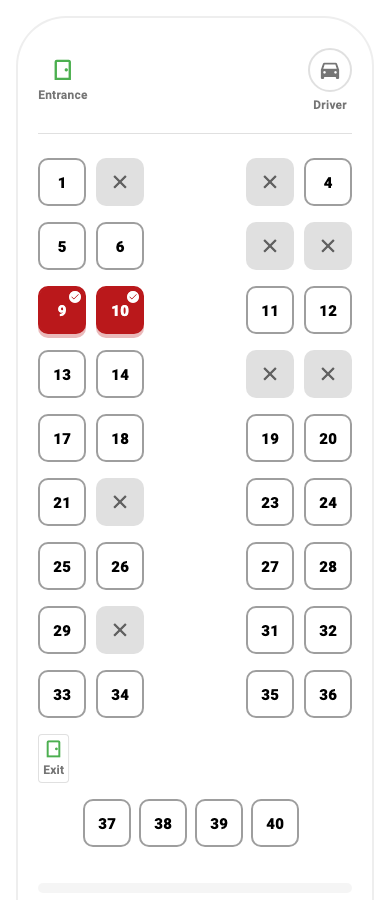
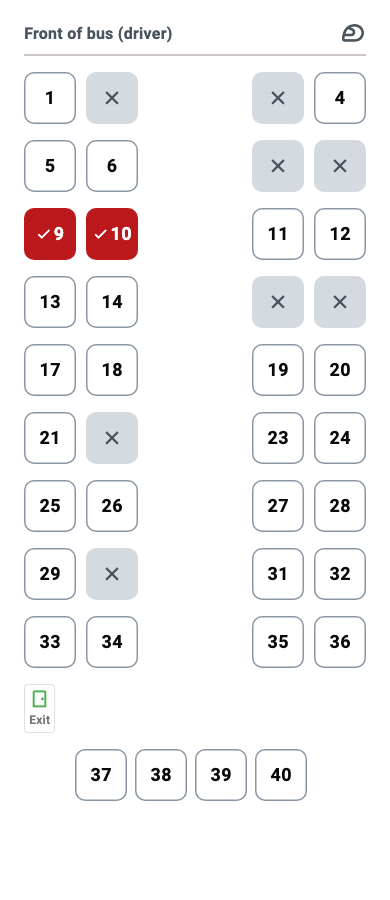
docs: changelog for admin shell; regenerate documentation pictures

diff --git a/CHANGELOG.md b/CHANGELOG.md
@@ -6,6 +6,13 @@ What changed in each step, newest first. Each heading names the pull request it 
 
 The first redesign pass kept most of the old screens and only dressed some of them. This pass builds each screen from its mockup board, on phone and on desktop, one batch at a time.
 
+### Conductor and admin
+
+* **Conductor** screens (`Conductor`, `ConductorStatus`, `ConductorVerify`, `ConductorDelay`) were already built from their boards in the first redesign pass and are unchanged here.
+* **Admin on a wide screen** now has the dark red side menu from `Desktop-Admin`: Dashboard, Trips, Routes, Bookings, Refunds, Feedback, Analytics, Users and roles, plus Passenger view, Conductor view and Log out. Every admin page sits inside it (`AdminShell`); the old top bar only shows on phones. The Trips page header is now "Upcoming trips" with one **Add new trip** button, and the row of seven duplicate buttons is gone. The phone's admin bottom bar matches the passenger one.
+* Pictures in `docs/images/` were regenerated from the real widgets.
+* **Not done yet:** the bodies of the admin pages (the trips table, the three-step trip form, routes, users, bookings, refunds, feedback, analytics, late departures) still use the earlier layout inside the new menu, and the "bus almost here" tracking state. See the open items in the pull request.
+
 ### Account, sign-in, support and bulk booking
 
 * **Favourites** (`Favourites`, `Desktop-Favourites`): photo cards with a big remove heart and BOOK AGAIN; a kind empty state. **Notifications** (`Notifications`): round coloured icons, plain words, a red dot and blush background for new ones. The old filter that hid booking and trip updates is gone, because the design shows them.
